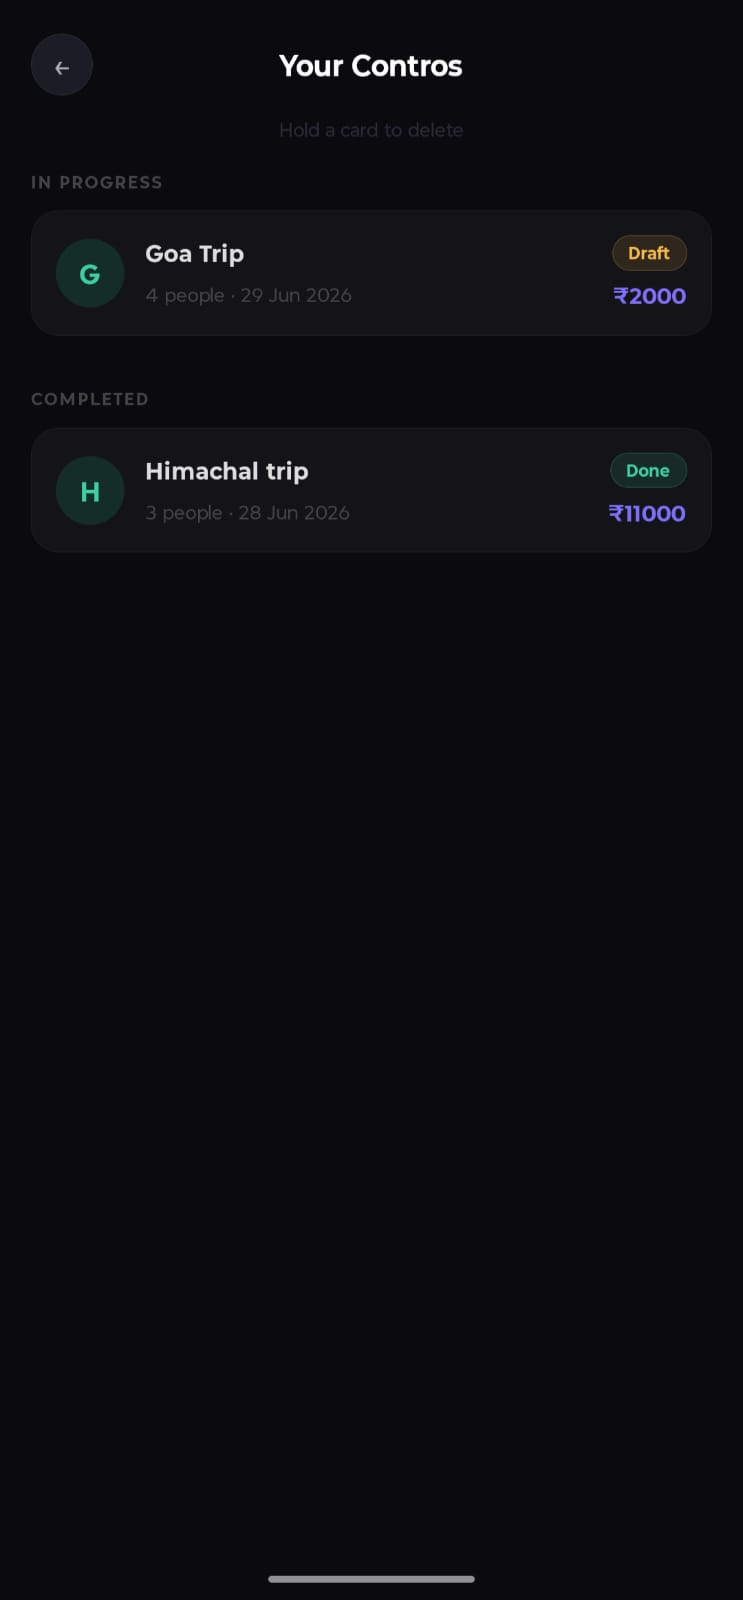
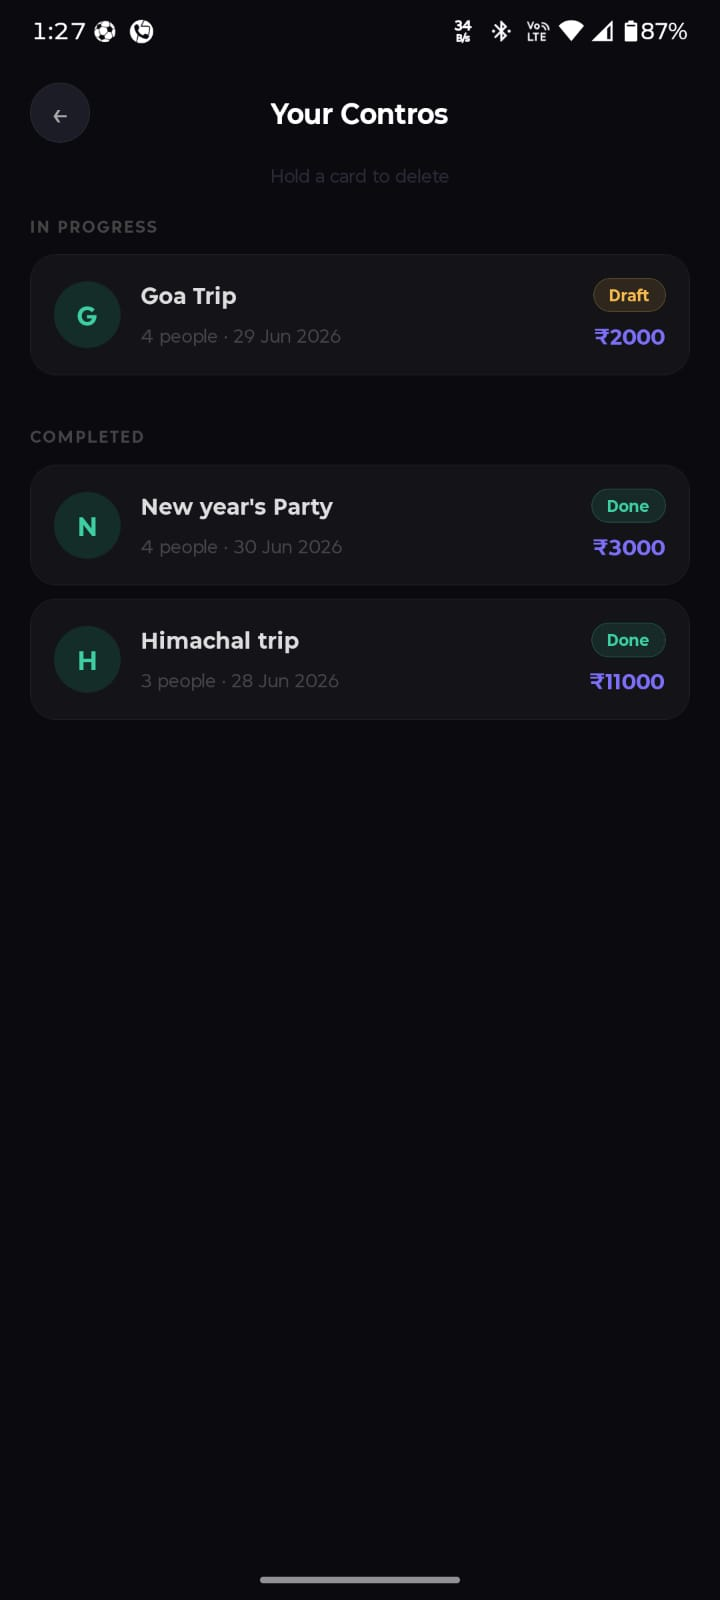
updated readme

diff --git a/README.md b/README.md
@@ -50,13 +50,21 @@ Most expense-splitting apps make you sign up, log in, and add friends before you
 
 <div align="center">
 <!-- Replace these with actual screenshots from /assets -->
+# Entry Screen
 <img src="./assets/screenshots/entry.jpeg" width="200" alt="Entry screen" />
+# Create Contro screen
 <img src="./assets/screenshots/quick-contro.jpeg" width="200" alt="Create Contro screen" />
+<img src="./assets/screenshots/quick-contro(2).jpeg" width="200" alt="Create Contro screen" />
+<img src="./assets/screenshots/quick-contro(3).jpeg" width="200" alt="Create Contro screen" />
+# Saved Contros screen
 <img src="./assets/screenshots/saved-contros.jpeg" width="200" alt="Saved Contros screen" />
+#Invoice screen
 <img src="./assets/screenshots/invoice.jpeg" width="200" alt="Invoice screen" />
 </div>
 
----
+### Generated PDF Report
+
+## <img src="./assets/screenshots/pdf-invoice.jpeg" width="480" alt="Generated PDF invoice" />
 
 ## How it works
 